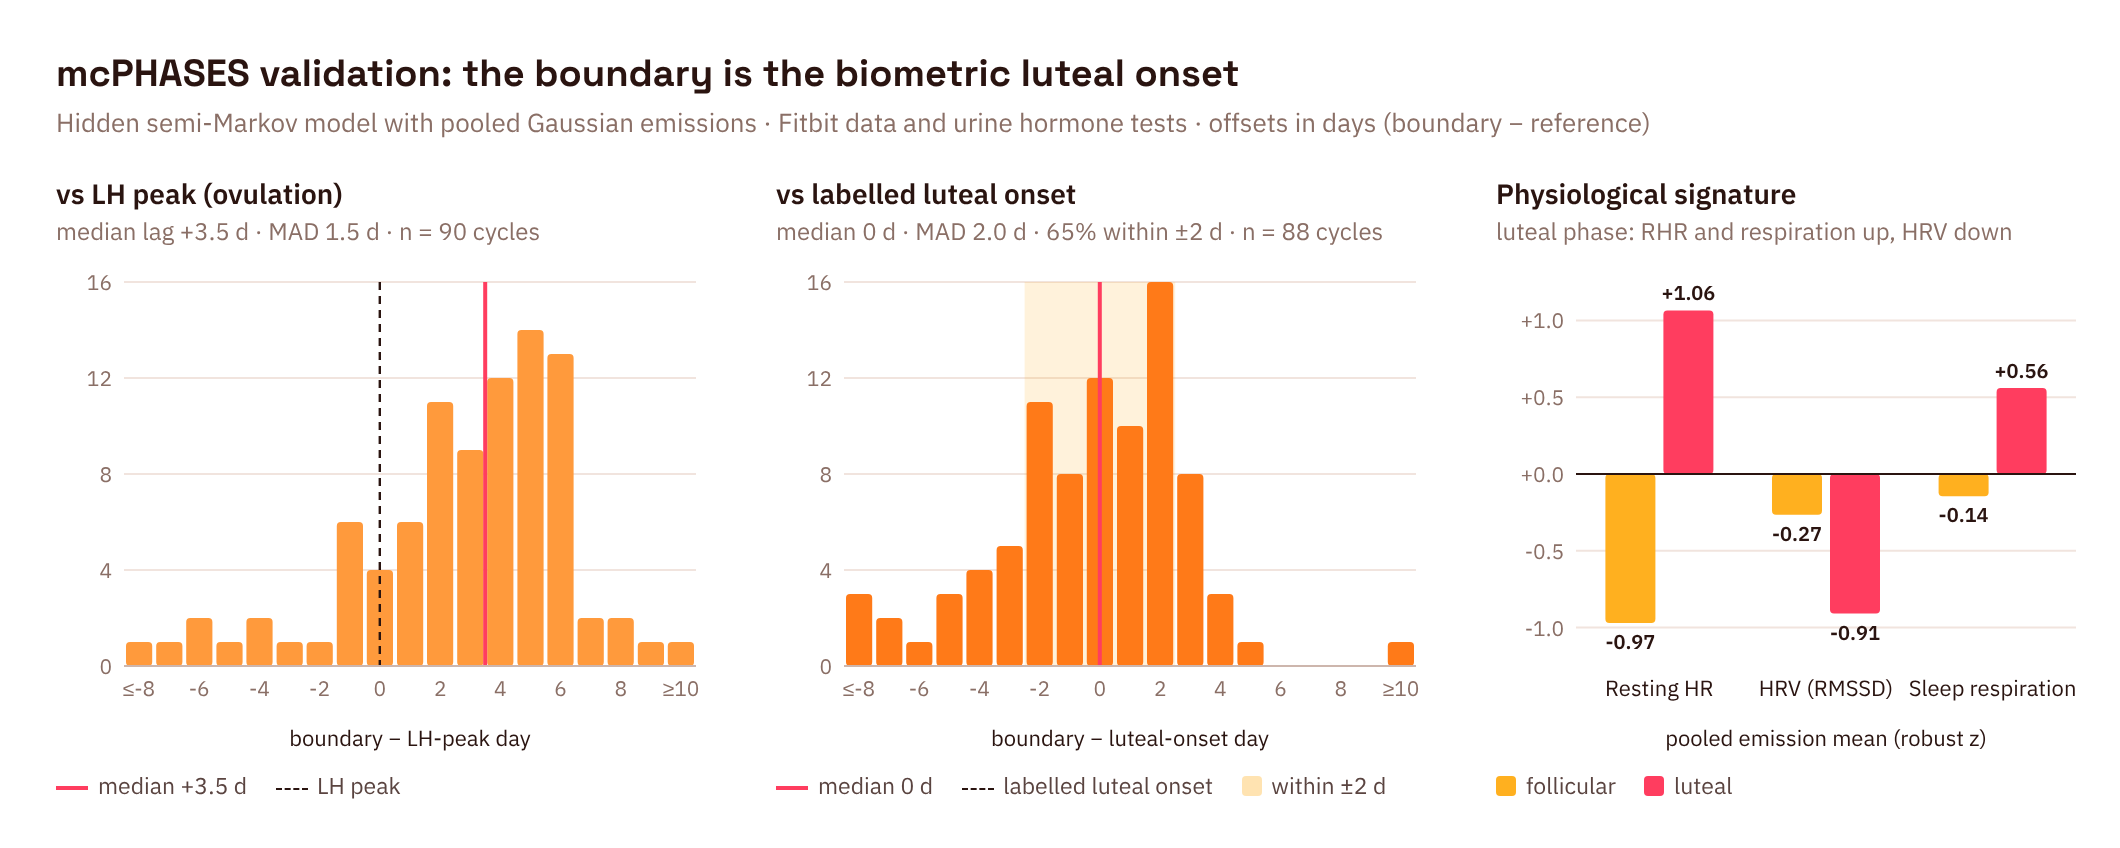
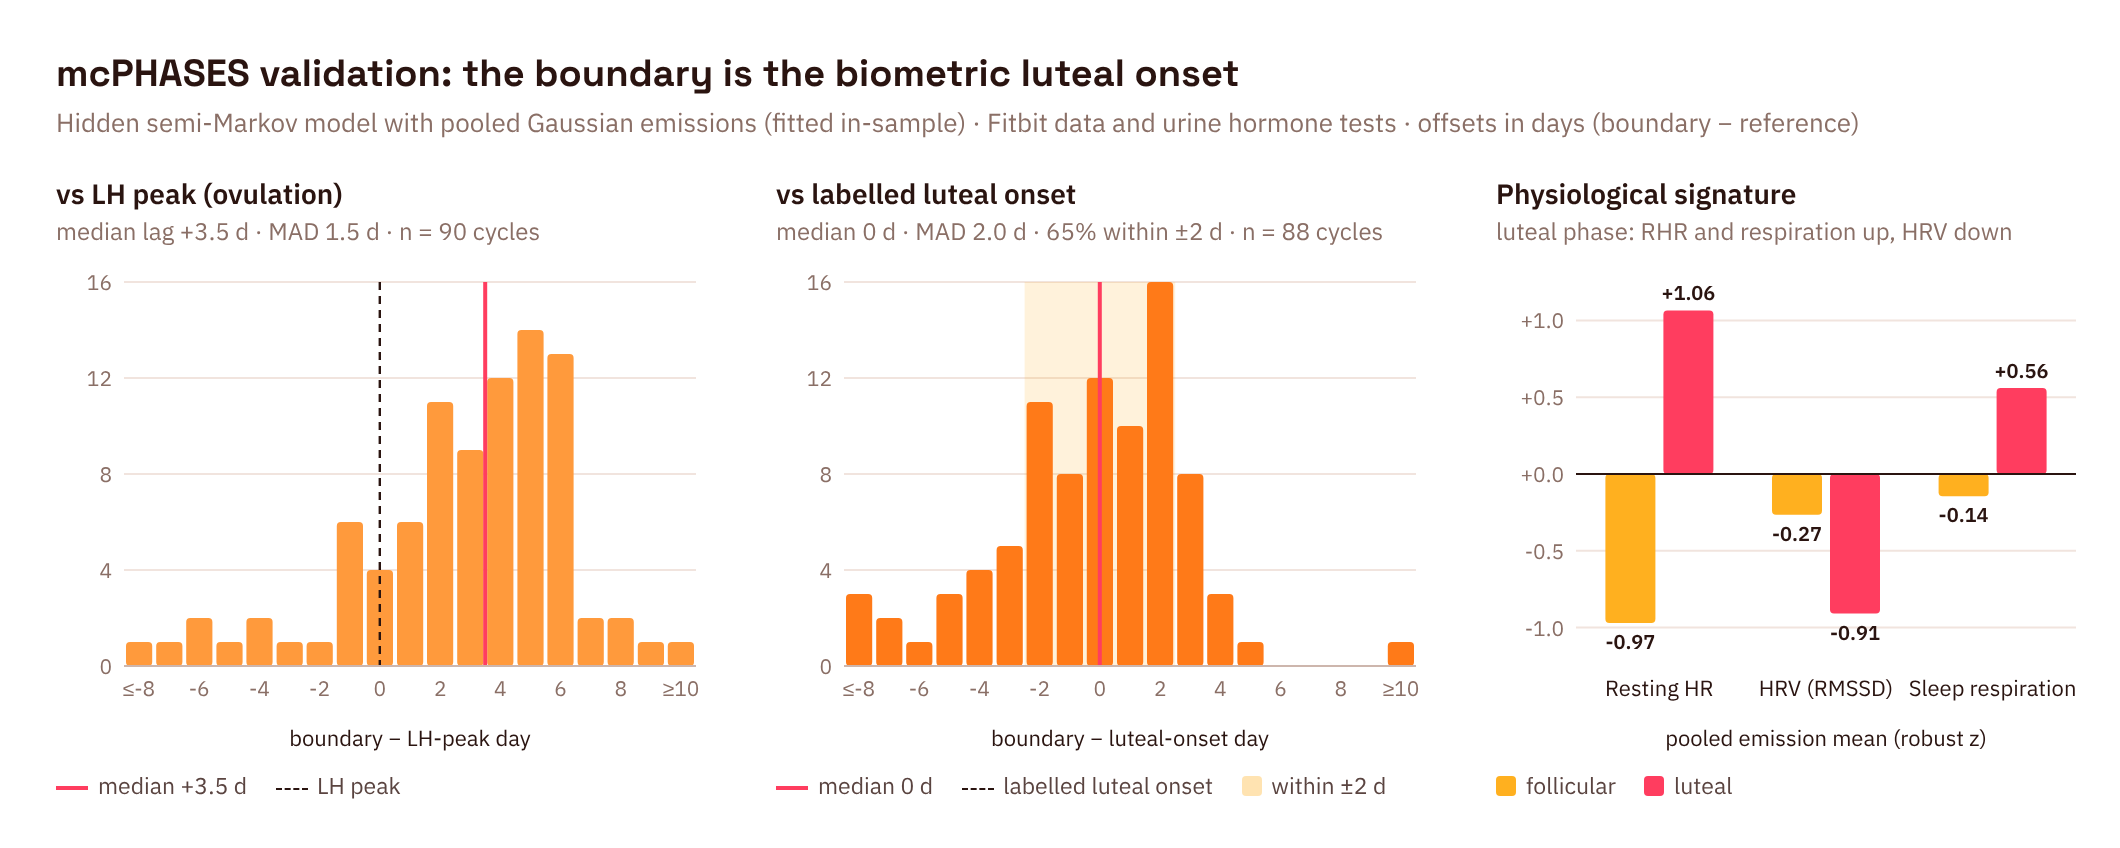
Garmin: leave-one-participant-out results; add both bachelor theses
- Garmin card: report the out-of-fold mcPHASES results (LOPO emissions,
  out-of-fold lag, participant-bootstrap 95% CIs) and update next steps
- Maths thesis: "more info" panel (stochastic processes, GPs, kernels and
  RKHS, GP vs kernel ridge regression)
- Physics thesis: new card and panel (grand-canonical Monte Carlo of hydrogen
  storage in three PIMs, results table and density relation)

Claude-Session: https://claude.ai/code/session_01JM5WmMnfbWCuTtE4rn38n9

Changed region(s): [[0.3425, 0.1226, 0.8717, 0.1533]]

diff --git a/index.html b/index.html
@@ -782,11 +782,24 @@
       <p class="ml-subhead">// other projects</p>
 
       <div class="ml-card" style="--w:75%">
-        <p class="ml-kicker">Machine Learning · Statistical Theory</p>
+        <p class="ml-kicker">Machine Learning · Statistical Theory · Maths bachelor's thesis</p>
         <h3>Supervised Learning with Gaussian Processes</h3>
         <p>Bachelor's thesis on the theory of GP regression — its equivalence to kernel ridge regression and PAC-Bayesian guarantees — applied to map a 21-D input to the 7 torque outputs of an anthropomorphic robotic arm.</p>
         <div class="ml-tags"><span>Python</span><span>Gaussian Processes</span><span>PAC-Bayes</span></div>
-        <a href="https://uvadoc.uva.es/handle/10324/50614" target="_blank">Full thesis ↗</a>
+        <div class="ml-foot">
+          <button class="ml-more" onclick="openCase('gp')">▶ More info</button>
+          <a href="https://uvadoc.uva.es/handle/10324/50614" target="_blank">Full thesis ↗</a>
+        </div>
+      </div>
+
+      <div class="ml-card" style="--w:70%">
+        <p class="ml-kicker">Computational Physics · Physics bachelor's thesis</p>
+        <h3>Monte Carlo Simulation of Hydrogen Storage in Microporous Polymers</h3>
+        <p>Grand-canonical Monte Carlo–Metropolis simulations of hydrogen physisorption in three polymers of intrinsic microporosity (HPB-PIM, PIM-TMN-Trip, PIM-1) at 77 K and room temperature, deriving how storage capacity depends on polymer density.</p>
+        <div class="ml-tags"><span>Monte Carlo</span><span>Statistical physics</span><span>Simulation</span></div>
+        <div class="ml-foot">
+          <button class="ml-more" onclick="openCase('pims')">▶ More info</button>
+        </div>
       </div>
 
       <div class="ml-card" style="--w:70%">
@@ -889,14 +902,14 @@
 
         <p class="sc-kicker" style="margin-top:0.8rem;">External validation · mcPHASES (Fitbit + hormone assays)</p>
         <img class="sport-plot" src="assets/garmin/mcphases-validation.png?v=2" alt="mcPHASES validation: HSMM boundary vs LH peak and vs labelled luteal onset, plus pooled follicular vs luteal emission means" loading="lazy" onclick="zoom(this.src)">
-        <p class="sport-cap">Validated on the public mcPHASES dataset (42 participants with Fitbit data and urine hormone tests; ~90 confident cycles from 29 participants). The HSMM's estimated boundary lands within <strong>±2 days</strong> of hormonally-confirmed luteal onset <strong>65%</strong> of the time (median offset 0d, MAD 2.0d), and trails the earlier LH peak by a physiologically-expected <strong>~3.5 days</strong> (MAD 1.5d). Offsets beyond −8 or +10 days are grouped into the end bins. Pooled emissions reproduce the same signature as my own record — resting HR &amp; respiration up, HRV down, in the luteal phase. <em>Click to enlarge.</em></p>
+        <p class="sport-cap">Validated on the public mcPHASES dataset (42 participants with Fitbit data and urine hormone tests). Headline numbers are <strong>out-of-fold</strong>: each participant is scored by emissions fitted on the <em>other</em> participants (leave-one-participant-out), any lag correction is learned from the others, and 95% CIs come from a bootstrap that resamples the 29 participants. Against hormonally labelled luteal onset (84 cycles), the boundary has a <strong>0-day</strong> median bias [−1, 1], MAD 2 d, and lands within <strong>±2 days in 63%</strong> of cycles [51–76] and within ±3 days in 77% [65–88]. It trails the LH peak by <strong>+4 days</strong> [2, 4], the expected lag before resting HR, HRV and respiration respond. With a lag learned from the other participants, it falls within ±2 days of the LH peak in 56% of cycles [44–69]. Fitting in-sample barely inflated the results (64% → 63% within ±2 days), and pooled emissions beat per-person ones (42%). The figure shows the in-sample pooled fit; offsets beyond −8 or +10 days are grouped into the end bins. <em>Click to enlarge.</em></p>
         <div class="sport-stats">
-          <span class="sport-stat">±2d of luteal onset · 65%</span>
-          <span class="sport-stat">median offset 0d · MAD 2.0d</span>
-          <span class="sport-stat">LH-peak lag ~3.5d · ~90 cycles, 29 people</span>
+          <span class="sport-stat">±2d of luteal onset · 63% [51–76]</span>
+          <span class="sport-stat">median offset 0d · MAD 2d</span>
+          <span class="sport-stat">LH-peak lag +4d · leave-one-participant-out · 29 people</span>
         </div>
 
-        <p class="sport-cap"><b>Next steps:</b> leave-one-participant-out validation on mcPHASES (the pooled emissions are currently fitted in-sample), adding skin temperature, carrying the boundary's uncertainty through to the output, and a population prior so new users need no warm-up cycles.</p>
+        <p class="sport-cap"><b>Next steps:</b> baseline-relative skin-temperature features, partially pooled (hierarchical) emissions that shrink each person towards the population, richer and calibrated features for the discriminative emission, and carrying the boundary's uncertainty through to the output.</p>
 
         <a href="https://github.com/ElsaLopez133/garmin" target="_blank">GitHub ↗</a>
       </div>
@@ -955,7 +968,7 @@ const body = document.body;
 const reduce = window.matchMedia('(prefers-reduced-motion: reduce)').matches;
 let activeWorld = null;
 const WORLDS = ['crypto', 'ml', 'sports'];
-const CASES = ['nokia', 'ibisc', 'ecal', 'lakers', 'formal', 'datamining', 'hpc'];
+const CASES = ['nokia', 'ibisc', 'ecal', 'lakers', 'formal', 'datamining', 'hpc', 'gp', 'pims'];
 
 /* Render a world (or the hub) without touching history. */
 function renderWorld(w) {
@@ -1233,6 +1246,8 @@ function renderCase(key) {
   else if (key === 'formal') { el.innerHTML = formalHTML(); }
   else if (key === 'datamining') { el.innerHTML = dataMiningHTML(); }
   else if (key === 'hpc') { el.innerHTML = hpcHTML(); }
+  else if (key === 'gp') { el.innerHTML = gpHTML(); }
+  else if (key === 'pims') { el.innerHTML = pimsHTML(); }
   document.getElementById('case-study').classList.add('open');
 }
 function renderCaseClosed() {
@@ -1493,6 +1508,57 @@ function hpcHTML() {
       '<li><b>Why.</b> Every iteration needs a global reduction to agree on the next vertex. With at most 500 vertices there is little work per process between these synchronisations, so communication cost dominates. On the 50-vertex graph, one process was fastest.</li>' +
     '</ul>' +
     '<p class="case-links"><a href="https://github.com/ElsaLopez133/HPC-for-Data-Science" target="_blank">GitHub ↗</a></p>';
+}
+
+function gpHTML() {
+  return '' +
+    '<h2 class="case-h">Supervised Learning with Gaussian Processes</h2>' +
+    '<p class="case-sub">Bachelor\'s thesis · Mathematics · University of Valladolid</p>' +
+    '<div class="pitch-box"><dl>' +
+      '<dt>The question</dt><dd>Gaussian-process regression and kernel ridge regression look like two different methods: one Bayesian, one an optimisation problem. Why do they give the same predictions, and what guarantees does a GP give on unseen data?</dd>' +
+      '<dt>The approach</dt><dd>Build GP regression from the measure-theoretic foundations up, connect it to kernels and reproducing-kernel Hilbert spaces, prove the equivalence with ridge regression, study PAC-Bayesian bounds, and apply the method to predicting the 7 joint torques of an anthropomorphic robotic arm from a 21-dimensional input.</dd>' +
+    '</dl></div>' +
+    '<div class="case-block-title">The theory, step by step</div>' +
+    '<ol class="case-list">' +
+      '<li><b>Stochastic processes.</b> A process is a family of random variables indexed by time or space. Kolmogorov\'s extension theorem guarantees that a consistent family of finite-dimensional distributions defines a unique process, which is what makes it possible to put a probability distribution on functions.</li>' +
+      '<li><b>Gaussian processes.</b> A process is Gaussian when every finite set of its values is jointly normal. It is fully described by a mean function and a covariance function, and any positive-definite covariance defines one.</li>' +
+      '<li><b>Kernels and RKHS.</b> A kernel is an inner product in a (possibly unknown) feature space, which lets linear methods learn non-linear relations without computing the features (the kernel trick). A function is a kernel exactly when it is symmetric and positive definite; each kernel has its own reproducing-kernel Hilbert space (RKHS), described through Mercer\'s representation, and new kernels can be built by combining existing ones.</li>' +
+      '<li><b>GP regression, two views.</b> In the <i>weight-space</i> view, a Bayesian linear model on features gives a Gaussian posterior over weights. In the <i>function-space</i> view, a GP prior over functions is conditioned on noisy observations, giving a posterior mean and variance at every new input.</li>' +
+      '<li><b>Ridge regression.</b> Least squares with a penalty on the size of the weights, solved in closed form, and kernelised.</li>' +
+      '<li><b>The equivalence.</b> The GP posterior mean equals the kernel ridge regression solution when the ridge penalty matches the noise variance: the noisier the data, the smoother the fitted function. What the GP adds is the predictive variance.</li>' +
+    '</ol>' +
+    '<p class="case-links"><a href="https://uvadoc.uva.es/handle/10324/50614" target="_blank">Full thesis (UVaDoc) ↗</a></p>';
+}
+
+function pimsHTML() {
+  return '' +
+    '<h2 class="case-h">Monte Carlo Simulation of Hydrogen Storage in PIMs</h2>' +
+    '<p class="case-sub">Bachelor\'s thesis · Physics · University of Valladolid · June 2021 · supervised by Iván Cabria Álvaro and Mª Begoña Torres Cabrera</p>' +
+    '<div class="pitch-box"><dl>' +
+      '<dt>The challenge</dt><dd>Hydrogen cars emit no CO₂, but hydrogen has to be stored on board in a small volume. One option is physisorption: hydrogen molecules stick to the inner surface of microporous materials. Polymers of intrinsic microporosity (PIMs) pack inefficiently, leaving empty micropores where hydrogen can sit. How much can they hold?</dd>' +
+      '<dt>How it was solved</dt><dd>Grand-canonical Monte Carlo simulations of three PIMs (HPB-PIM, PIM-TMN-Trip and PIM-1) and two of their monomers, at 77 K (0.1–15 MPa) and 298.15 K (0.1–25 MPa), compared with experimental results from the literature.</dd>' +
+      '<dt>My part</dt><dd>The full study: building the simulation cells, running the simulations, and analysing and explaining the results.</dd>' +
+    '</dl></div>' +
+    '<div class="case-block-title">Method</div>' +
+    '<ul class="case-list">' +
+      '<li><b>Simulation cell.</b> About 50 × 50 × 50 Å³ per polymer, filled with randomly oriented and placed chains until the experimental polymer density is reached; the arrangement with the lowest total energy is kept.</li>' +
+      '<li><b>Monte Carlo–Metropolis.</b> Random moves (displacing, inserting or removing hydrogen molecules) are accepted with the Metropolis criterion, so the system samples configurations with the right Boltzmann probabilities.</li>' +
+      '<li><b>Grand-canonical ensemble.</b> Temperature, volume and chemical potential are fixed, so the number of hydrogen molecules adjusts to the pressure. The chemical potential at each pressure comes from the Soave–Redlich–Kwong equation of state.</li>' +
+      '<li><b>Outputs.</b> Gravimetric capacity (hydrogen as a percentage of total mass) and volumetric capacity (kg of hydrogen per litre) at each temperature and pressure.</li>' +
+    '</ul>' +
+    '<div class="case-block-title">Results at the highest pressure (thesis, Table 6.2)</div>' +
+    '<div class="case-table-wrap"><table class="case-table">' +
+      '<thead><tr><th>Polymer</th><th>Density (kg/L)</th><th>Gravimetric, 298 K (wt%)</th><th>Gravimetric, 77 K (wt%)</th><th>Volumetric, 77 K (kg/L)</th></tr></thead><tbody>' +
+      '<tr><td>PIM-TMN-Trip</td><td class="n">0.965</td><td class="n">1.32</td><td class="n">3.69</td><td class="n">0.037</td></tr>' +
+      '<tr><td>PIM-1</td><td class="n">1.114</td><td class="n">0.99</td><td class="n">2.77</td><td class="n">0.032</td></tr>' +
+      '<tr><td>HPB-PIM</td><td class="n">1.174</td><td class="n">0.81</td><td class="n">2.46</td><td class="n">0.030</td></tr>' +
+    '</tbody></table></div>' +
+    '<p class="case-intro">25 MPa at 298.15 K and 15 MPa at 77 K.</p>' +
+    '<ul class="case-list">' +
+      '<li><b>The lighter the polymer, the more it stores.</b> Both capacities rank the polymers the same way: PIM-TMN-Trip, then PIM-1, then HPB-PIM, which is the reverse of their density.</li>' +
+      '<li><b>A simple law links the two capacities.</b> Gravimetric capacity ≈ 100 × volumetric capacity ÷ polymer density. It matches the simulations almost exactly at room temperature, and explains why the much less dense monomers show far higher gravimetric capacities.</li>' +
+      '<li><b>Agreement with experiment.</b> The simulated results agreed well with experimental values from the literature.</li>' +
+    '</ul>';
 }
 
 /* ───────── Konami easter egg ───────── */
